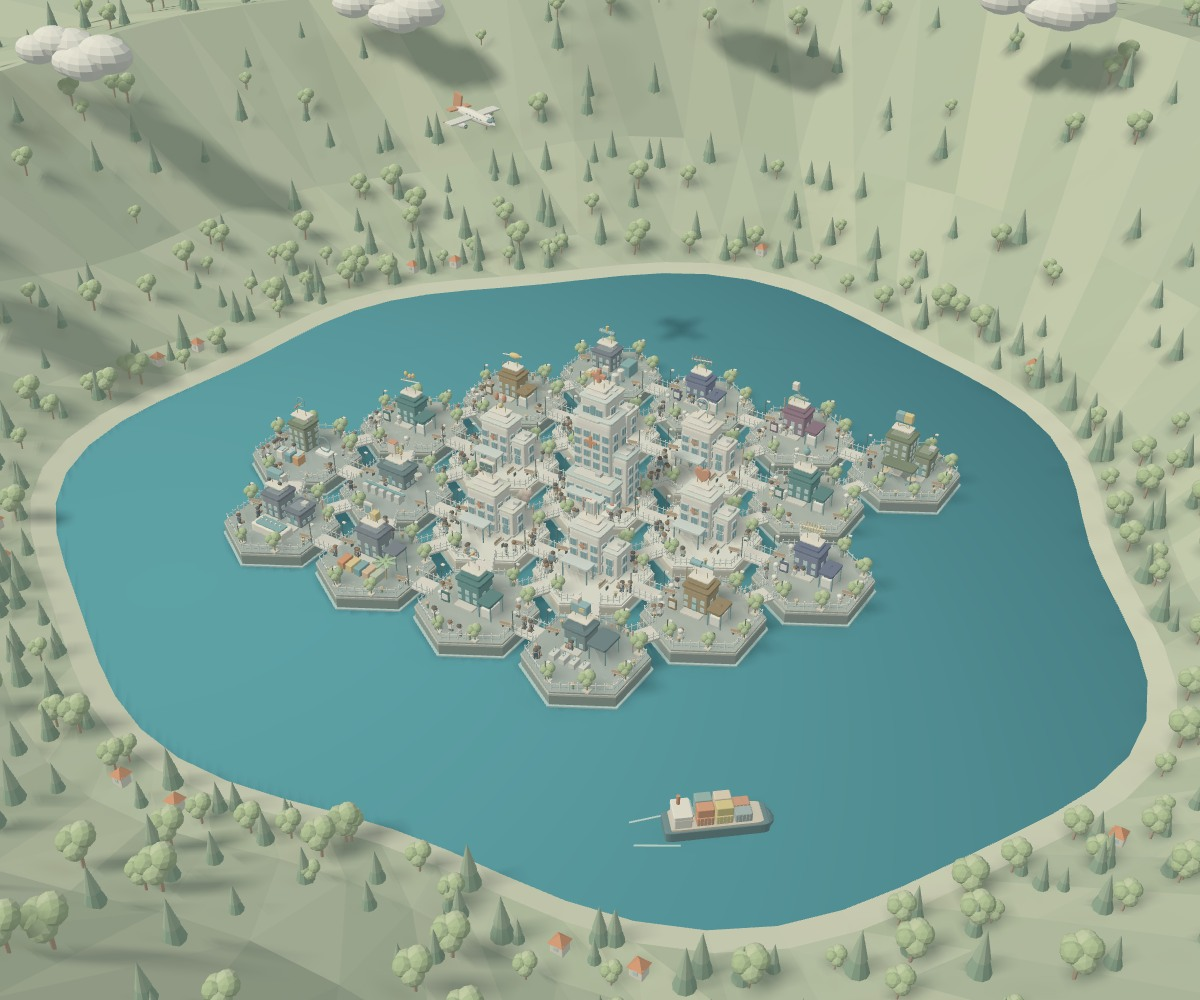
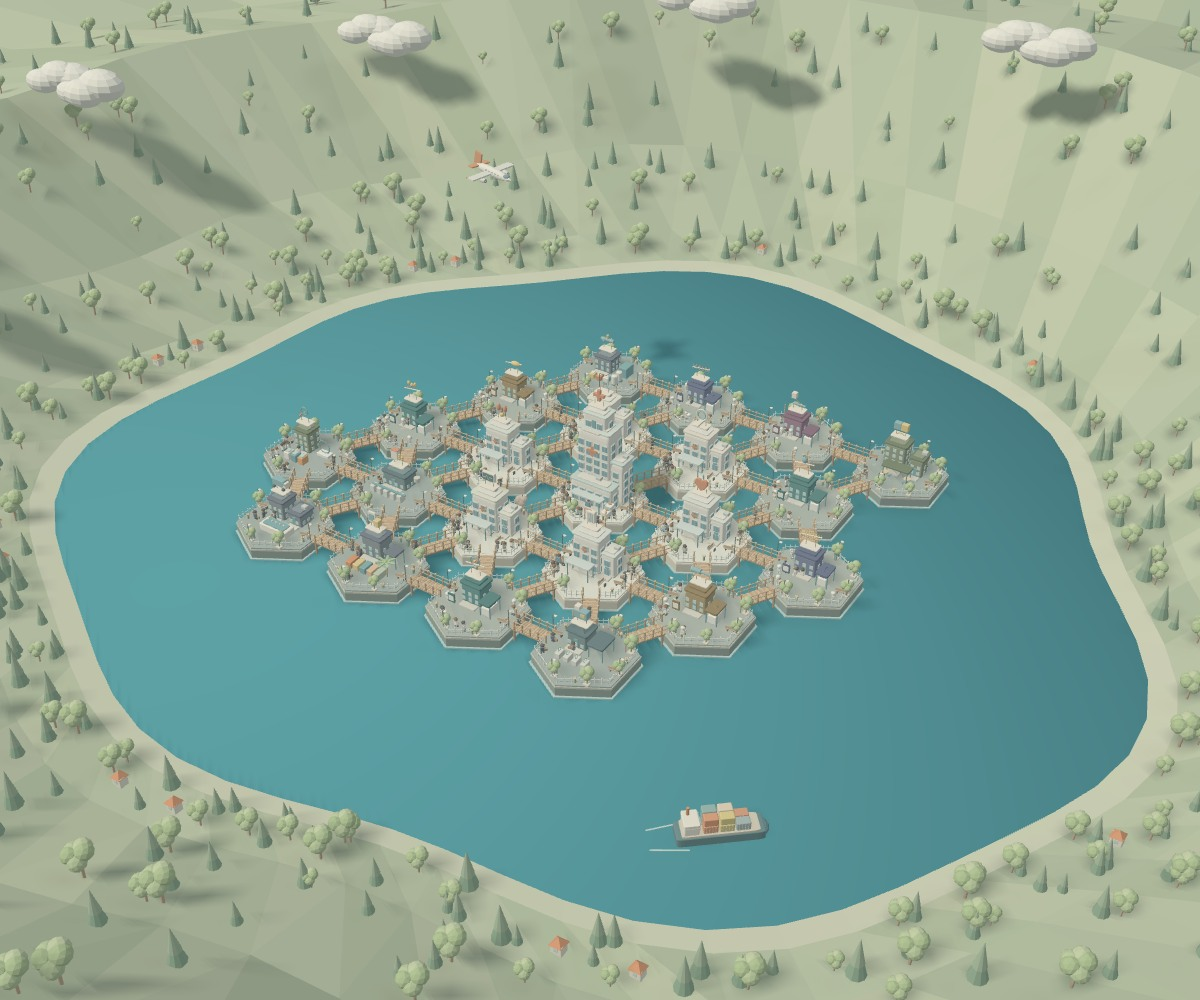
Double canal gaps and connect districts with timber boardwalk bridges

diff --git a/island.html b/island.html
@@ -131,9 +131,9 @@ function detailBody(t){if(t.type==='dept'){
  if(t.id==='hospital')return `<h3 class="results-heading">一次療程</h3><div id="journeyContent">${journeyHTML()}</div>${kmSettings()}`;
  const resources=C.supplies.filter(r=>r.tile===t.id);return (resources.length?`<h3 class="results-heading">技術需要的外部資源＊</h3>${resourceCards(resources)}`:'')+(['materials','components','equipment'].includes(t.id)?`<h3 class="results-heading">相關廠商與資料夾＊</h3><div data-vendors="${t.id}">${vendorHTML(t.id)}</div><p class="content-note">＊依關鍵字推定，非合作紀錄。</p>`:'')+kmSettings();
 }
-function showList(){window.medtechScene?.home();window.previewMarker?.select(-1);$('#personCard')?.remove();selected=null;window.syncPreviewRelations?.();resetHighlights();target.x=0;target.z=0;target.zoom=1;querySeq++;recordSeq++;$('#sceneTitle').textContent='點編號探索醫材分區。';$('#sideContent').innerHTML=`<h2>把需求，連起來。</h2><p class="side-lead">以蜂窩排列的醫材分區，地塊間保留水道與短橋，外圍以山林湖岸環繞。中央醫院、六個科別，連結技術與供應服務。點科別看產品，開啟「關聯」看對應。</p><div class="searchwrap"><input id="listSearch" type="search" placeholder="搜尋產品、技術、關鍵字…" aria-label="搜尋地塊" value="${esc(listQuery)}"></div><div class="filtertabs"><button data-filter="all">全部</button><button data-filter="dept">科別</button><button data-filter="tech">技術分區</button><button data-filter="supplier">供應服務</button><button data-filter="market">醫院與客戶</button></div><div class="tile-list" id="tileList"></div><div class="side-foot"><span class="live-dot"></span>商情資料來自歐噴資料庫。<br>蜂窩分區供內容導覽，相鄰不代表合作。產品與技術對應請看「關聯」；＊為推定或待確認。</div>`;renderList();$('#listSearch').addEventListener('input',e=>{listQuery=e.target.value;renderList()})}
+function showList(){window.medtechScene?.home();window.previewMarker?.select(-1);$('#personCard')?.remove();selected=null;window.syncPreviewRelations?.();resetHighlights();target.x=0;target.z=0;target.zoom=1;querySeq++;recordSeq++;$('#sceneTitle').textContent='點編號探索醫材分區。';$('#sideContent').innerHTML=`<h2>把需求，連起來。</h2><p class="side-lead">以蜂窩排列的醫材分區，地塊間以寬水道分隔、木棧道相連，外圍以山林湖岸環繞。中央醫院、六個科別，連結技術與供應服務。點科別看產品，開啟「關聯」看對應。</p><div class="searchwrap"><input id="listSearch" type="search" placeholder="搜尋產品、技術、關鍵字…" aria-label="搜尋地塊" value="${esc(listQuery)}"></div><div class="filtertabs"><button data-filter="all">全部</button><button data-filter="dept">科別</button><button data-filter="tech">技術分區</button><button data-filter="supplier">供應服務</button><button data-filter="market">醫院與客戶</button></div><div class="tile-list" id="tileList"></div><div class="side-foot"><span class="live-dot"></span>商情資料來自歐噴資料庫。<br>蜂窩分區供內容導覽，相鄰不代表合作。產品與技術對應請看「關聯」；＊為推定或待確認。</div>`;renderList();$('#listSearch').addEventListener('input',e=>{listQuery=e.target.value;renderList()})}
 function renderList(){const q=listQuery.trim().toLowerCase(),hits=C.products.filter(p=>p.name.toLowerCase().includes(q)),list=tiles.filter(t=>(filter==='all'||t.type===filter)&&((t.name+t.en+t.tags.join('')).toLowerCase().includes(q)||hits.some(p=>p.dept===t.id)));$('#tileList').innerHTML=list.length?list.map(t=>`<button class="tile-item" data-tile="${t.i}"><span class="tile-icon" style="background:${t.color}">${t.icon}</span><span><span class="title">${t.name}</span><span class="subtitle">${t.en}</span>${q&&hits.some(p=>p.dept===t.id)?`<small class="search-match">含：${hits.filter(p=>p.dept===t.id).map(p=>esc(p.name)).join('、')}</small>`:''}</span><span class="arrow">↗</span></button>`).join(''):'<p class="empty">沒有相符的方向，請換個關鍵字。</p>';document.querySelectorAll('[data-filter]').forEach(b=>b.classList.toggle('active',b.dataset.filter===filter))}
-function choose(i){if(!tiles[i])return;resetHighlights();$('#personCard')?.remove();window.previewMarker?.select(i);selected=tiles[i];window.syncPreviewRelations?.();window.medtechScene?.focus(i);target.x=selected.x;target.z=selected.z;target.zoom=1.32;$('#sceneTitle').textContent=selected.name+' · '+selected.tags.join('／');$('#sideContent').innerHTML=`<button class="back" id="backList">← 回到探索清單</button><div class="detail-top"><div class="thumb-wrap"><img id="detailThumb" src="town-preview.jpg?v=16" alt="${selected.name}島嶼場景"><span>${selected.icon}</span></div><div><p class="detail-num">${String(i+1).padStart(2,'0')} / ${selected.en}</p><h2>${selected.name}</h2></div></div><p class="side-lead">${esc(selected.description)}</p><div class="tags">${selected.tags.map(t=>`<span>${esc(t)}</span>`).join('')}</div>${detailBody(selected)}<section class="public-query"><h3 class="results-heading">歐噴資料庫查詢</h3><form class="query-form" id="queryForm"><input id="query" aria-label="歐噴關鍵字" value="${selected.query}" required><button class="primary">搜尋 ↗</button></form>${authHTML()}<div id="queryResults"><p class="status">正在搜尋公開索引…</p></div><div id="records"></div><p class="source-note">來源：<a href="https://data.openfun.tw/" target="_blank" rel="noopener noreferrer">歐噴資料庫</a>。索引條目不等同採購需求，請核對原始來源。</p></section>`;$('#sidebar').scrollTop=0;document.body.classList.add('panel-open');runQuery(selected.query)}
+function choose(i){if(!tiles[i])return;resetHighlights();$('#personCard')?.remove();window.previewMarker?.select(i);selected=tiles[i];window.syncPreviewRelations?.();window.medtechScene?.focus(i);target.x=selected.x;target.z=selected.z;target.zoom=1.32;$('#sceneTitle').textContent=selected.name+' · '+selected.tags.join('／');$('#sideContent').innerHTML=`<button class="back" id="backList">← 回到探索清單</button><div class="detail-top"><div class="thumb-wrap"><img id="detailThumb" src="town-preview.jpg?v=17" alt="${selected.name}島嶼場景"><span>${selected.icon}</span></div><div><p class="detail-num">${String(i+1).padStart(2,'0')} / ${selected.en}</p><h2>${selected.name}</h2></div></div><p class="side-lead">${esc(selected.description)}</p><div class="tags">${selected.tags.map(t=>`<span>${esc(t)}</span>`).join('')}</div>${detailBody(selected)}<section class="public-query"><h3 class="results-heading">歐噴資料庫查詢</h3><form class="query-form" id="queryForm"><input id="query" aria-label="歐噴關鍵字" value="${selected.query}" required><button class="primary">搜尋 ↗</button></form>${authHTML()}<div id="queryResults"><p class="status">正在搜尋公開索引…</p></div><div id="records"></div><p class="source-note">來源：<a href="https://data.openfun.tw/" target="_blank" rel="noopener noreferrer">歐噴資料庫</a>。索引條目不等同採購需求，請核對原始來源。</p></section>`;$('#sidebar').scrollTop=0;document.body.classList.add('panel-open');runQuery(selected.query)}
 function goProduct(id){const p=C.products.find(p=>p.id===id);if(!p)return;choose(tileById(p.dept).i);const el=$('#product-'+id);if(!el)return;el.classList.add('product-highlight');el.scrollIntoView({block:'start',behavior:paused?'auto':'smooth'});setTimeout(()=>el.classList.remove('product-highlight'),2400)}
 function showTechMap(){querySeq++;recordSeq++;selected=null;$('#personCard')?.remove();window.medtechScene?.home();window.previewMarker?.select(-1);resetHighlights();const ordered=['surface','structure','forming','process'].flatMap(f=>C.techs.filter(t=>t.family===f));$('#sceneTitle').textContent='從產品應用，走向技術與共用能力。';$('#sideContent').innerHTML=`<button class="back" id="backList">← 回到探索清單</button><h2>技術地圖</h2><p class="side-lead">八座技術分區，十二項共用能力。點能力欄頭，查看共用能力的技術分區。</p><div class="matrix-scroll" tabindex="0" role="region" aria-label="技術與共用能力矩陣，可左右滑動"><table class="cap-matrix"><caption>技術 × 共用能力</caption><thead><tr><th scope="col">技術分區</th>${C.capabilities.map(c=>`<th scope="col"><button data-capability="${c.id}" aria-pressed="false">${esc(c.name)}</button></th>`).join('')}</tr></thead><tbody>${ordered.map((t,i)=>{const f=C.families[t.family],newFamily=i===0||ordered[i-1].family!==t.family;return `${newFamily?`<tr class="family-row"><th colspan="${C.capabilities.length+1}" style="color:${f.color}">${f.name}</th></tr>`:''}<tr><th scope="row"><button data-tech="${t.id}">${esc(tileById(t.id).name)}</button></th>${C.capabilities.map(c=>`<td class="${c.techs.includes(t.id)?'has-cap':''}">${c.techs.includes(t.id)?`<span style="background:${f.color}" role="img" aria-label="使用${esc(c.name)}"></span>`:'<span class="sr-only">未共用</span>'}</td>`).join('')}</tr>`}).join('')}</tbody></table></div><p class="content-note">＊分區為本站整理。圓點表示能力項目有對應關鍵字，不代表完成度。</p><p id="capStatus" class="status" role="status">選擇能力可標亮島名。</p><h3 class="results-heading">最常共用的能力</h3><div class="common-capabilities">${[...C.capabilities].sort((a,b)=>b.techs.length-a.techs.length).slice(0,5).map(c=>`<button class="person-item" data-capability="${c.id}"><strong>${esc(c.name)}</strong><small>共用 ×${c.techs.length}</small></button>`).join('')}</div>${kmSettings()}<button class="primary copy-state" id="copyState">複製目前狀態</button><p class="content-note">複製技術名稱、紀錄數與紀錄標題；未連線時不填入紀錄數。</p><textarea id="copyFallback" class="copy-fallback" aria-label="目前狀態文字" hidden readonly></textarea>`;$('#sidebar').scrollTop=0;document.body.classList.add('panel-open')}
 
@@ -172,12 +172,12 @@ window.showPersonInfo=p=>{let card=$('#personCard');if(!card){card=document.crea
 window.updatePersonInfo=p=>{if($('#personCard')?.dataset.person===String(p.id)){$('#personTask').textContent=p.task;$('#personCard > small').textContent=p.island}};
 document.addEventListener('click',e=>{const b=e.target.closest('[data-person]');if(b)window.medtechScene?.selectPerson(+b.dataset.person,b.dataset.personView);if(e.target.id==='closePerson'){$('#personCard')?.remove();window.medtechScene?.clearPerson()}});
 window.syncPreviewRelations=()=>{const svg=$('#previewRelations'),anchors=window.previewRelationAnchors;if(!svg||!anchors)return;const related=window.MEDTECH_RELATIONS.filter(r=>selected?(r.a===selected.i||r.b===selected.i):r.kind==='application');svg.style.display=showLinks?'':'none';svg.innerHTML=related.map(r=>{const a=anchors[r.a],b=anchors[r.b],lift=Math.min(95,25+Math.hypot(a.x-b.x,a.y-b.y)*.15);return `<path d="M ${a.x},${a.y} Q ${(a.x+b.x)/2},${(a.y+b.y)/2-lift} ${b.x},${b.y}" fill="none" stroke="${r.inferred?'#b76d44':'#316f77'}" stroke-width="2.3" ${r.inferred?'stroke-dasharray="6 5"':''}/>`}).join('')};
-window.showIslandPreview=note=>{window.previewLabelCleanup?.();const stage=$('#island');stage.style.background='#bdc69b';stage.innerHTML='<img class="scene-fallback" src="town-preview.jpg?v=16" alt="醫院科別、技術與供應服務蜂窩分區預覽"><p class="webgl-note"></p>';stage.querySelector('.webgl-note').textContent=note;const relations=document.createElementNS('http://www.w3.org/2000/svg','svg');relations.id='previewRelations';relations.classList.add('relation-overlay');stage.appendChild(relations);const marker=window.MedtechLabels.create(stage,tiles);window.previewMarker=marker;applyLabelState();marker.root.style.display=showLabels?'':'none';const image=stage.querySelector('img');const update=()=>{const r=stage.getBoundingClientRect(),portrait=r.width/r.height<.8,wanted=portrait?'town-preview-portrait.jpg?v=16':'town-preview.jpg?v=16';if(image.getAttribute('src')!==wanted){marker.root.style.visibility='hidden';image.src=wanted;return}if(!image.complete||!image.naturalWidth)return;marker.root.style.visibility='visible';const iw=portrait?780:1200,ih=portrait?1688:1000,k=Math.min(r.width/iw,r.height/ih),ox=(r.width-iw*k)/2,oy=(r.height-ih*k)/2;const anchors=(portrait?window.MEDTECH_PREVIEW_PORTRAIT_POINTS:window.MEDTECH_PREVIEW_POINTS).map(([u,v])=>({x:ox+u*iw*k,y:oy+v*ih*k}));marker.update(anchors,r.width,r.height);window.previewRelationAnchors=anchors;relations.setAttribute('viewBox',`0 0 ${r.width} ${r.height}`);window.syncPreviewRelations?.()};image.onload=update;const observer=new ResizeObserver(update);observer.observe(stage);update();window.previewLabelCleanup=()=>{observer.disconnect();marker.destroy();relations.remove();window.previewRelationAnchors=null;window.previewMarker=null}};
-window.MEDTECH_PREVIEW_POINTS=[[0.5,0.490854],[0.58604,0.529857],[0.494423,0.564487],[0.409085,0.523127],[0.41964,0.454425],[0.504921,0.425889],[0.585892,0.460364],[0.329541,0.484574],[0.509295,0.368147],[0.488048,0.648647],[0.312694,0.557344],[0.255218,0.448552],[0.234203,0.516475],[0.754004,0.466369],[0.672422,0.497206],[0.667165,0.431513],[0.58576,0.398839],[0.678384,0.571718],[0.586209,0.608973],[0.397079,0.601281],[0.344415,0.420325],[0.42899,0.39356]];
-window.MEDTECH_PREVIEW_PORTRAIT_POINTS=[[0.5,0.494921],[0.622404,0.516246],[0.492482,0.534809],[0.370633,0.512741],[0.382401,0.474433],[0.506984,0.457865],[0.625095,0.477689],[0.253649,0.491555],[0.51349,0.423351],[0.484366,0.577866],[0.236772,0.531181],[0.141242,0.471197],[0.120514,0.509259],[0.869339,0.480966],[0.747951,0.498309],[0.746127,0.461017],[0.627598,0.441826],[0.749915,0.538461],[0.619504,0.557813],[0.35795,0.55403],[0.26933,0.454733],[0.393349,0.438793]];
+window.showIslandPreview=note=>{window.previewLabelCleanup?.();const stage=$('#island');stage.style.background='#bdc69b';stage.innerHTML='<img class="scene-fallback" src="town-preview.jpg?v=17" alt="醫院科別、技術與供應服務蜂窩分區預覽"><p class="webgl-note"></p>';stage.querySelector('.webgl-note').textContent=note;const relations=document.createElementNS('http://www.w3.org/2000/svg','svg');relations.id='previewRelations';relations.classList.add('relation-overlay');stage.appendChild(relations);const marker=window.MedtechLabels.create(stage,tiles);window.previewMarker=marker;applyLabelState();marker.root.style.display=showLabels?'':'none';const image=stage.querySelector('img');const update=()=>{const r=stage.getBoundingClientRect(),portrait=r.width/r.height<.8,wanted=portrait?'town-preview-portrait.jpg?v=17':'town-preview.jpg?v=17';if(image.getAttribute('src')!==wanted){marker.root.style.visibility='hidden';image.src=wanted;return}if(!image.complete||!image.naturalWidth)return;marker.root.style.visibility='visible';const iw=portrait?780:1200,ih=portrait?1688:1000,k=Math.min(r.width/iw,r.height/ih),ox=(r.width-iw*k)/2,oy=(r.height-ih*k)/2;const anchors=(portrait?window.MEDTECH_PREVIEW_PORTRAIT_POINTS:window.MEDTECH_PREVIEW_POINTS).map(([u,v])=>({x:ox+u*iw*k,y:oy+v*ih*k}));marker.update(anchors,r.width,r.height);window.previewRelationAnchors=anchors;relations.setAttribute('viewBox',`0 0 ${r.width} ${r.height}`);window.syncPreviewRelations?.()};image.onload=update;const observer=new ResizeObserver(update);observer.observe(stage);update();window.previewLabelCleanup=()=>{observer.disconnect();marker.destroy();relations.remove();window.previewRelationAnchors=null;window.previewMarker=null}};
+window.MEDTECH_PREVIEW_POINTS=[[0.5,0.492247],[0.585125,0.530917],[0.494508,0.565253],[0.410067,0.524272],[0.420433,0.456102],[0.504852,0.427746],[0.585015,0.461973],[0.331294,0.486042],[0.50917,0.370347],[0.488241,0.648564],[0.314778,0.558205],[0.257635,0.450294],[0.237029,0.517704],[0.751412,0.467909],[0.670618,0.498522],[0.665505,0.43331],[0.584918,0.400854],[0.67641,0.572385],[0.585249,0.609291],[0.398293,0.601709],[0.345895,0.422241],[0.429627,0.395628]];
+window.MEDTECH_PREVIEW_PORTRAIT_POINTS=[[0.5,0.495693],[0.621138,0.516822],[0.4926,0.535223],[0.372003,0.513367],[0.383566,0.475385],[0.50688,0.458941],[0.623813,0.478598],[0.256167,0.492373],[0.513293,0.424684],[0.484619,0.577858],[0.239607,0.531647],[0.144814,0.472192],[0.124477,0.509933],[0.865571,0.481831],[0.745391,0.499035],[0.743644,0.462052],[0.626303,0.443017],[0.747271,0.538823],[0.618257,0.557997],[0.359552,0.55427],[0.271566,0.45585],[0.394331,0.440022]];
 showList();
 setTimeout(()=>{if(!window.medtechScene&&!$('#island').querySelector('.scene-fallback'))window.showIslandPreview('3D 尚未載入，先顯示場景預覽。島名仍可點選查詢。')},15000);
 })();
 </script>
-<script type="module" src="island-scene.js?v=16"></script>
+<script type="module" src="island-scene.js?v=17"></script>
 </body></html>

diff --git a/island-model.js b/island-model.js
@@ -17,7 +17,7 @@ export function buildMedicalTown(T,RoundedBoxGeometry,definitions){
  const cyl=(x,y,z,r,h,c=C.white)=>p('cyl',x,y,z,r*2,h,r*2,c);
  const ball=(x,y,z,r,c=C.green,s=[1,1,1])=>p('ball',x,y,z,r*2*s[0],r*2*s[1],r*2*s[2],c);
  function beam(a,b,width,c,kind='cyl'){const A=new T.Vector3(...a),B=new T.Vector3(...b),v=B.clone().sub(A),q=new T.Quaternion().setFromUnitVectors(new T.Vector3(0,1,0),v.clone().normalize()),e=new T.Euler().setFromQuaternion(q);parts.push({kind,pos:A.add(B).multiplyScalar(.5).toArray(),scale:[width,v.length(),width],color:c,rot:[e.x,e.y,e.z],owner})}
- const TOP=.66,R=2.18,SPACE=1.20;
+ const TOP=.66,R=2.18,SPACE=1.40;
  definitions.forEach((d,i)=>tileCenters.push({i,x:Math.sqrt(3)*R*SPACE*(d.q+d.r/2),z:1.5*R*SPACE*d.r}));
  const cells=new Map(definitions.map((d,i)=>[d.q+','+d.r,i])),edgeSteps=[[0,1],[-1,1],[-1,0],[0,-1],[1,-1],[1,0]];
  function neighbor(i,edge){const d=definitions[i],step=edgeSteps[edge];return cells.get((d.q+step[0])+','+(d.r+step[1]))}
@@ -145,13 +145,20 @@ export function buildMedicalTown(T,RoundedBoxGeometry,definitions){
 
  tileCenters.forEach(courtyard);
  tileCenters.forEach(c=>roofEmblem(c.i));
- // Short canal crossings are walking passages; they do not encode content relationships.
+ // Timber boardwalks provide walking passages, independently of content relationships.
  const routes=[];owner=-1;
- tileCenters.forEach(a=>edgeSteps.forEach((_,edge)=>{const other=neighbor(a.i,edge);if(other===undefined||other<=a.i)return;const b=tileCenters[other],len=Math.hypot(b.x-a.x,b.z-a.z),dx=(b.x-a.x)/len,dz=(b.z-a.z)/len,ry=Math.atan2(dx,dz),start=[a.x+dx*1.68,a.z+dz*1.68],end=[b.x-dx*1.68,b.z-dz*1.68];routes.push({a:a.i,b:other,kind:'walkway'});box((a.x+b.x)/2,TOP-.05,(a.z+b.z)/2,.70,.10,len-3.36,0xe3ddd0,ry);for(const side of [-1,1]){const nx=dz*.34*side,nz=-dx*.34*side;fence(start[0]+nx,start[1]+nz,end[0]+nx,end[1]+nz,0)}}));
+ function boardwalk(a,b){const len=Math.hypot(b.x-a.x,b.z-a.z),dx=(b.x-a.x)/len,dz=(b.z-a.z)/len,ry=Math.atan2(dx,dz),length=len-3.36,cx=(a.x+b.x)/2,cz=(a.z+b.z)/2,n=Math.ceil(length/.11),pitch=length/n;
+  routes.push({a:a.i,b:b.i,kind:'walkway',material:'timber',length,planks:n});
+  const at=(along,across)=>[cx+dx*along+dz*across,cz+dz*along-dx*across];
+  for(const side of [-1,1]){const[x,z]=at(0,side*.25);box(x,TOP-.105,z,.075,.10,length,0x8f684b,ry)}
+  for(let j=0;j<n;j++){const[x,z]=at(-length/2+(j+.5)*pitch,0);box(x,TOP-.035,z,.70,.07,pitch*.94,[0xb58a60,0xc19a70,0xae8059,0xc7a27c][j%4],ry);for(const side of [-1,1]){const[nx,nz]=at(-length/2+(j+.5)*pitch,side*.26);cyl(nx,TOP+.004,nz,.008,.006,0x76634e)}}
+  for(const side of [-1,1]){const count=Math.ceil(length/.40);for(let j=0;j<=count;j++){const[x,z]=at(-length/2+j*length/count,side*.34);box(x,TOP+.20,z,.052,.42,.052,0x9b7452);box(x,TOP+.42,z,.075,.04,.075,0xd0ae86)}for(const y of [.20,.39]){const A=at(-length/2,side*.34),B=at(length/2,side*.34);beam([A[0],TOP+y,A[1]],[B[0],TOP+y,B[1]],.042,0xbc946a)}for(const end of [-1,1]){const[x,z]=at(end*length*.34,side*.26);box(x,TOP-.35,z,.08,.72,.08,0x8b694d)}}
+ }
+ tileCenters.forEach(a=>edgeSteps.forEach((_,edge)=>{const other=neighbor(a.i,edge);if(other===undefined||other<=a.i)return;boardwalk(a,tileCenters[other])}));
 
  // A continuous faceted lake basin surrounds the navigable districts.
  function lakeBasin(){
-  owner=-1;const segments=64,scales=[1,1.045,1.16,1.42,1.85,2.6,4],levels=[.015,.17,.68,3.2,10.2,6.4,4.8],rings=[],triangles=[],groups=new Map(),palette=[0xc1c9a4,0xa5b68e,0x99ad85,0x8fa47e,0xa6b68c,0x93a980],rx=20.2,rz=18.7;
+  owner=-1;const segments=64,scales=[1,1.045,1.16,1.42,1.85,2.6,4],levels=[.015,.17,.68,3.2,10.2,6.4,4.8],rings=[],triangles=[],groups=new Map(),palette=[0xc1c9a4,0xa5b68e,0x99ad85,0x8fa47e,0xa6b68c,0x93a980],rx=23.8,rz=22.1;
   for(let j=0;j<scales.length;j++){rings[j]=[];for(let k=0;k<segments;k++){const a=k/segments*Math.PI*2,shore=1+.050*Math.sin(a*3+.3)+.030*Math.cos(a*7),ridge=Math.sin(a*5+.2)*.8+Math.cos(a*9)*.45+Math.sin(a*3)*.65,y=levels[j]+(j>1?ridge*(j-1)*.32:Math.sin(a*5)*.025);rings[j].push([Math.cos(a)*rx*scales[j]*shore,y,Math.sin(a)*rz*scales[j]*shore])}}
   function triangle(A,B,C,j,k){if((B[2]-A[2])*(C[0]-A[0])-(B[0]-A[0])*(C[2]-A[2])<0)[B,C]=[C,B];const color=j===0?palette[0]:palette[1+(k+j*3)%5];if(!groups.has(color))groups.set(color,[]);groups.get(color).push(...A,...B,...C);triangles.push({A,B,C,band:j})}
   for(let j=0;j<rings.length-1;j++)for(let k=0;k<segments;k++){const next=(k+1)%segments,A=rings[j][k],B=rings[j+1][k],C=rings[j][next],D=rings[j+1][next];triangle(A,B,C,j,k);triangle(B,D,C,j,k+1)}
@@ -159,8 +166,8 @@ export function buildMedicalTown(T,RoundedBoxGeometry,definitions){
   function pine(x,y,z,s){cyl(x,y+.30*s,z,.035*s,.60*s,C.brown);p('cone',x,y+.68*s,z,.56*s,1.05*s,.56*s,0x608767);p('cone',x,y+1.02*s,z,.38*s,.88*s,.38*s,0x7d9c77)}
   let forestCount=0;for(const t of triangles)for(let grove=0;grove<3;grove++){if(t.band<1||t.band>4||rand()>.55)continue;let u=.18+rand()*.48,v=.18+rand()*.35;if(u+v>.88)v=.88-u;const w=1-u-v,x=t.A[0]*u+t.B[0]*v+t.C[0]*w,y=t.A[1]*u+t.B[1]*v+t.C[1]*w,z=t.A[2]*u+t.B[2]*v+t.C[2]*w,s=.65+rand()*.65;if(rand()<.65)pine(x,y,z,s);else tree(x,z,s,false,y,true);forestCount++}
   for(let h=0;h<14;h++){const k=(h*7+11)%segments,A=rings[1][k],B=rings[2][k],x=A[0]*.5+B[0]*.5,z=A[2]*.5+B[2]*.5,y=A[1]*.5+B[1]*.5;box(x,y+.22,z,.44,.44,.38,0xf0e7cf);p('roof',x,y+.53,z,.72,.26,.64,C.coral,Math.PI/4);box(x,y+.26,z+.20,.15,.17,.025,C.glass)}
-  let cloudGroups=0;for(let c=0;c<12;c++){const a=c/12*Math.PI*2+.15;if(Math.cos(a)*.47+Math.sin(a)*.65>.05)continue;cloudGroups++;const x=Math.cos(a)*32,z=Math.sin(a)*30,y=11+Math.sin(a*3)*1.4;for(let b=0;b<6;b++){const f=b/5-.5;ball(x+f*3.6,y+Math.sin(b*1.4)*.28,z+Math.cos(b*1.8)*.48,.88+(b%3)*.14,0xf1f0e5,[1.25,.72,.90])}}
-  return{shoreline:rings[0],overview:Array.from({length:12},(_,i)=>({x:Math.cos(i/12*Math.PI*2)*18.9,z:Math.sin(i/12*Math.PI*2)*17.5})),forestCount,terrainTriangles:triangles.length,cloudGroups};
+  let cloudGroups=0;for(let c=0;c<12;c++){const a=c/12*Math.PI*2+.15;if(Math.cos(a)*.47+Math.sin(a)*.65>.05)continue;cloudGroups++;const x=Math.cos(a)*38,z=Math.sin(a)*35,y=11+Math.sin(a*3)*1.4;for(let b=0;b<6;b++){const f=b/5-.5;ball(x+f*3.6,y+Math.sin(b*1.4)*.28,z+Math.cos(b*1.8)*.48,.88+(b%3)*.14,0xf1f0e5,[1.25,.72,.90])}}
+  return{rx,rz,shoreline:rings[0],overview:Array.from({length:12},(_,i)=>({x:Math.cos(i/12*Math.PI*2)*22.3,z:Math.sin(i/12*Math.PI*2)*20.65})),forestCount,terrainTriangles:triangles.length,cloudGroups};
  }
  const landscape=lakeBasin();
 
@@ -179,7 +186,7 @@ export function buildMedicalTown(T,RoundedBoxGeometry,definitions){
  const ap=(kind,pos,scale,color,rotation,light)=>vehiclePart(plane,kind,pos,scale,color,rotation,light);
  ap('ball',[0,0,0],[.43,.43,2.7],0xf3eee2);ap('ball',[0,.10,1.02],[.32,.16,.35],0x567d87);ap('round',[0,-.03,-.12],[2.72,.075,.44],0xe5e4db,[0,.10,0]);ap('round',[0,.06,-1.02],[1.08,.065,.34],0xd3764d);ap('round',[0,.35,-1.06],[.085,.63,.48],0xd3764d,[.18,0,0]);
  for(const side of [-1,1]){ap('ball',[side*.68,-.19,.04],[.25,.25,.59],0xe6e7e0);ap('ball',[side*.68,-.19,.30],[.16,.16,.025],0x3d5b62);ap('ball',[side*1.36,-.01,-.24],[.065,.065,.065],side<0?0xd7765c:0x79b49a,undefined,true);for(let w=0;w<5;w++)ap('round',[side*.207,.07,.64-w*.22],[.019,.060,.080],0x739a9d)}
- function updateTransport(time){const a=time*.021+.75;ship.position.set(Math.sin(a)*17.0,-.01,Math.cos(a)*15.7);ship.rotation.y=Math.atan2(Math.cos(a)*17.0,-Math.sin(a)*15.7);ship.rotation.z=Math.sin(time*.8)*.012;
+ function updateTransport(time){const a=time*.021+.75;ship.position.set(Math.sin(a)*20.5,-.01,Math.cos(a)*18.9);ship.rotation.y=Math.atan2(Math.cos(a)*20.5,-Math.sin(a)*18.9);ship.rotation.z=Math.sin(time*.8)*.012;
   const u=((time+31)%112)/112;plane.visible=u<.83;const t=u/.83;plane.position.set(-31+t*62,10.4+Math.sin(t*Math.PI)*1.1,-12+t*16);plane.rotation.y=Math.atan2(62,16);plane.rotation.z=-Math.sin(t*Math.PI*2)*.045;
  }
  updateTransport(0);
@@ -230,5 +237,5 @@ export function buildMedicalTown(T,RoundedBoxGeometry,definitions){
   root.updateMatrixWorld(true);for(const{mesh,color}of vehicleMeshes){if(!mesh.parent.visible)continue;const pos=new T.Vector3(),q=new T.Quaternion(),scale=new T.Vector3();mesh.matrixWorld.decompose(pos,q,scale);const e=new T.Euler().setFromQuaternion(q),geo=mesh.geometry;out.push({kind:'transport',positions:Array.from(geo.attributes.position.array),indices:geo.index?Array.from(geo.index.array):null,items:[{pos:pos.toArray(),scale:scale.toArray(),rot:[e.x,e.y,e.z],color}]})}
   return {centers:tileCenters,batches:out,landscape};
  }
- return Object.assign(api,{root,tileCenters,rooftopSymbols,roofs,landscape,transport,vehicles,updateTransport,staticMeshes,parts,actors,geometries:G,updatePeople,setNight,lamps,routes,doors,navigation:{nodes,doorIds,stations},constants:{TOP,R},exportRender});
+ return Object.assign(api,{root,tileCenters,rooftopSymbols,roofs,landscape,transport,vehicles,updateTransport,staticMeshes,parts,actors,geometries:G,updatePeople,setNight,lamps,routes,doors,navigation:{nodes,doorIds,stations},constants:{TOP,R,SPACE},exportRender});
 }

diff --git a/island-scene.js b/island-scene.js
@@ -1,7 +1,7 @@
 import * as T from 'three';
 import {OrbitControls} from 'three/addons/controls/OrbitControls.js';
 import {RoundedBoxGeometry} from './rounded-box.js';
-import {buildMedicalTown} from './island-model.js?v=16';
+import {buildMedicalTown} from './island-model.js?v=17';
 
 const stage=document.querySelector('#island'),area=document.querySelector('#scene');
 let renderer;
@@ -18,7 +18,7 @@ function start(){
  const ambient=new T.HemisphereLight(0xfff9e9,0xb0bea3,2.15);scene.add(ambient);const fill=new T.AmbientLight(0xe5f4ee,.36);scene.add(fill);
  const sun=new T.DirectionalLight(0xfff3d9,3.25);sun.position.set(-15,28,18);sun.castShadow=true;sun.shadow.mapSize.set(2048,2048);Object.assign(sun.shadow.camera,{left:-32,right:32,top:32,bottom:-32,near:1,far:80});sun.shadow.bias=-.0002;sun.shadow.normalBias=.025;sun.shadow.radius=3;sun.shadow.camera.updateProjectionMatrix();scene.add(sun);
  const city=buildMedicalTown(T,RoundedBoxGeometry,window.MEDTECH_TILES);scene.add(city.root);
- const sea=new T.Mesh(new T.PlaneGeometry(48,46),new T.MeshBasicMaterial({color:0x62aab5}));sea.rotation.x=-Math.PI/2;sea.position.y=-.11;scene.add(sea);const seaShadow=new T.Mesh(new T.PlaneGeometry(80,80),new T.ShadowMaterial({opacity:.16}));seaShadow.rotation.x=-Math.PI/2;seaShadow.position.y=-.105;seaShadow.receiveShadow=true;scene.add(seaShadow);
+ const sea=new T.Mesh(new T.PlaneGeometry(56,54),new T.MeshBasicMaterial({color:0x62aab5}));sea.rotation.x=-Math.PI/2;sea.position.y=-.11;scene.add(sea);const seaShadow=new T.Mesh(new T.PlaneGeometry(80,80),new T.ShadowMaterial({opacity:.16}));seaShadow.rotation.x=-Math.PI/2;seaShadow.position.y=-.105;seaShadow.receiveShadow=true;scene.add(seaShadow);
  const marker=window.MedtechLabels.create(stage,window.MEDTECH_TILES),labels=marker.root,badges=marker.badges;window.refreshIslandLabels?.();
  const selectedRing=new T.LineLoop(new T.BufferGeometry().setFromPoints(Array.from({length:6},(_,i)=>new T.Vector3(Math.cos(Math.PI/6+i*Math.PI/3)*2.16,.70,Math.sin(Math.PI/6+i*Math.PI/3)*2.16))),new T.LineBasicMaterial({color:0xd97043}));selectedRing.visible=false;scene.add(selectedRing);
  const mats=new Map();function material(c){if(!mats.has(c))mats.set(c,new T.MeshStandardMaterial({color:c,roughness:.72}));return mats.get(c)}
